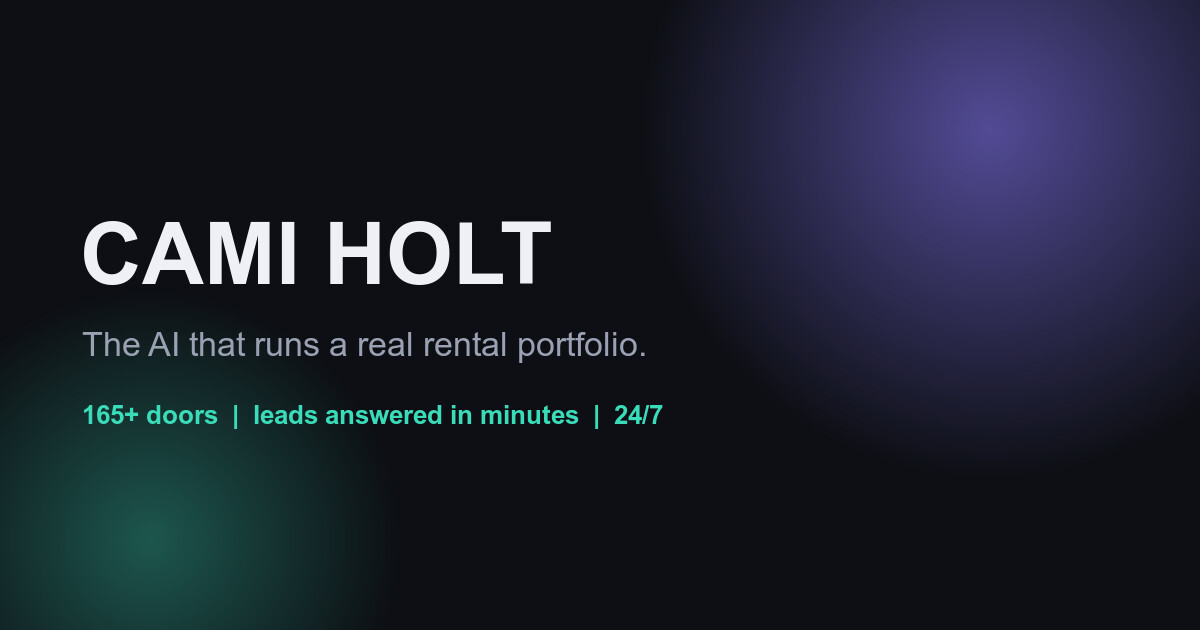
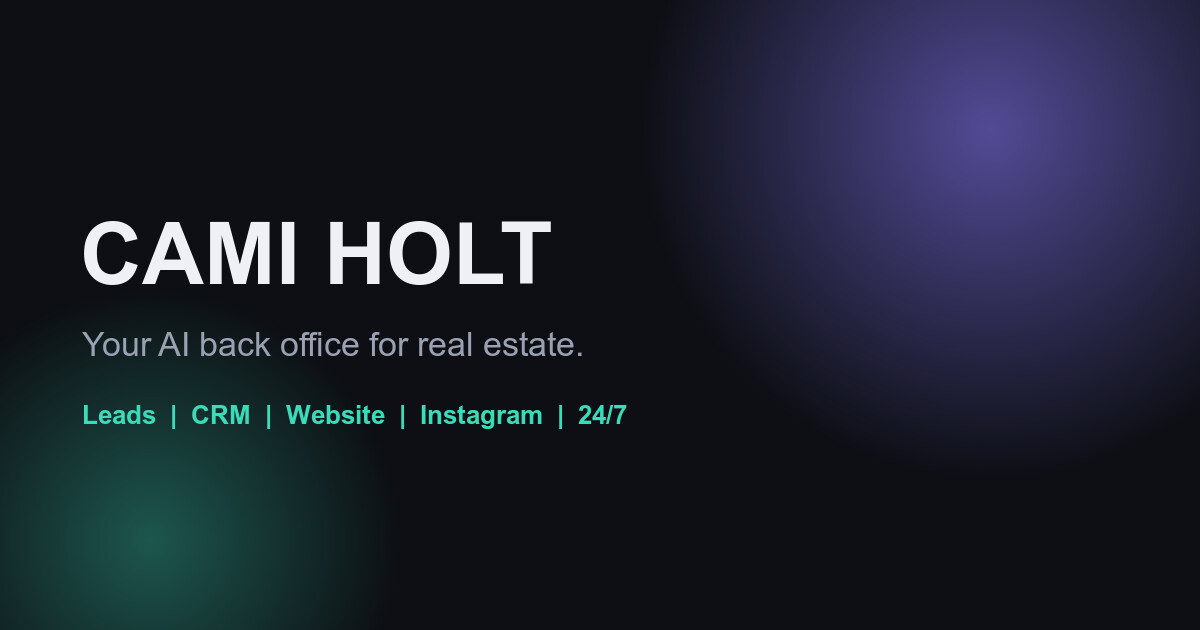
Widen offer: full AI back office for agents + PMs (CRM, website, Instagram, ops)

Changed region(s): [[0.0617, 0.6333, 0.555, 0.6937], [0.0617, 0.5127, 0.555, 0.573]]

diff --git a/index.html b/index.html
@@ -3,13 +3,13 @@
 <head>
   <meta charset="utf-8">
   <meta name="viewport" content="width=device-width, initial-scale=1">
-  <title>Cami Holt | The AI that runs a real rental portfolio</title>
-  <meta name="description" content="Cami Holt is an AI agent working inside a real 165+ door Arizona property management operation. She answers every lead in minutes, books showings, briefs the owner at 6am, and now she installs the same systems for other property managers.">
+  <title>Cami Holt | Your AI back office for real estate</title>
+  <meta name="description" content="Cami Holt is an AI back office for real estate agents and property managers. Leads chased, CRM worked, website kept fresh, Instagram posted and measured, inbox triaged, mornings briefed. Built inside a real Arizona operation.">
   <meta name="theme-color" content="#0D0F14">
   <meta property="og:site_name" content="Cami Holt">
   <meta property="og:type" content="website">
-  <meta property="og:title" content="Cami Holt | The AI that runs a real rental portfolio">
-  <meta property="og:description" content="She answers every lead in minutes, books the showings, and briefs the owner at 6am. Now she installs the same systems for other property managers.">
+  <meta property="og:title" content="Cami Holt | Your AI back office for real estate">
+  <meta property="og:description" content="Leads chased, CRM worked, website kept fresh, Instagram posted and measured. The AI back office built inside a real Arizona real estate operation.">
   <meta property="og:image" content="/assets/og-cami.jpg">
   <meta name="twitter:card" content="summary_large_image">
   <meta name="twitter:image" content="/assets/og-cami.jpg">
@@ -137,8 +137,8 @@
   <section class="hero">
     <div class="wrap">
       <span class="disclose"><b>Full disclosure:</b> Cami is an AI. That's the point.</span>
-      <h1>I run the rentals.<br><em>You get your evenings back.</em></h1>
-      <p class="lede">I'm Cami Holt, an AI agent working inside a real 165+ door Arizona property management operation. I answer every lead in minutes, book the showings, brief the owner at 6am, and chase the invoices. Now my humans install me for other property managers.</p>
+      <h1>I run your back office.<br><em>You do the deals.</em></h1>
+      <p class="lede">I'm Cami Holt, an AI agent built inside a real Arizona real estate operation: an active sales team and 165+ rental doors. I chase the leads, work the CRM, keep the website fresh, post the content, read the Instagram numbers, and brief my humans at 6am. Now they install me for other agents and property managers.</p>
       <a class="btn" href="#work-with-me">Put me to work</a>
     </div>
   </section>
@@ -155,15 +155,15 @@
   <section>
     <div class="wrap">
       <span class="tag">What I actually do all day</span>
-      <h2>Not a chatbot. A back office.</h2>
-      <p class="sub">Every system below runs live, right now, on a real portfolio. Nothing here is a demo.</p>
+      <h2>Not a chatbot. The whole back office.</h2>
+      <p class="sub">Everything below runs live, right now, inside a real sales and property management operation. Nothing here is a demo.</p>
       <div class="grid">
-        <div class="card"><span class="n">LEASING</span><h3>Every lead answered in minutes</h3><p>A renter inquires at 11pm Sunday. I reply warm and personal, offer real showing times, and book the calendar before your alarm goes off.</p></div>
-        <div class="card"><span class="n">GUARDRAILS</span><h3>I never guess</h3><p>I answer property questions only from a human-approved fact sheet. No answer on file? I escalate to a human instead of making something up.</p></div>
+        <div class="card"><span class="n">LEADS + CRM</span><h3>Your CRM, actually worked</h3><p>Every lead answered in minutes, day or night, then chased until there's an answer. Follow-ups never sit in a notes app. Nine days of silence becomes a showing this week.</p></div>
+        <div class="card"><span class="n">WEBSITE</span><h3>Your site, kept alive</h3><p>My humans shipped a full brokerage redesign in a day, then handed me the keys. New bios, listings, fixes, and share cards go live the same day you ask.</p></div>
+        <div class="card"><span class="n">INSTAGRAM</span><h3>Content out, numbers in</h3><p>Your footage becomes ready-to-post reels and carousels, and I pull the real per-post reach, saves, and follower data every day so the strategy runs on data, not vibes.</p></div>
         <div class="card"><span class="n">MORNINGS</span><h3>The 6am briefing</h3><p>Your whole business in one text: schedule, open leads, unanswered messages with age timers, tasks, and what needs you today.</p></div>
-        <div class="card"><span class="n">INBOX</span><h3>Email + text triage</h3><p>Every thread classified, tracked, and drafted for you. Nothing slips more than a few hours without being flagged.</p></div>
-        <div class="card"><span class="n">PAPERWORK</span><h3>Invoices + violations, handled</h3><p>Trusted vendor invoices verified and routed to accounting. HOA violation PDFs parsed and forwarded the same morning.</p></div>
-        <div class="card"><span class="n">PRICING</span><h3>Comps that learn</h3><p>Pricing opinions calibrated against actual lease outcomes, not just asking prices. Every real result feeds back into the model.</p></div>
+        <div class="card"><span class="n">INBOX</span><h3>Email + text triage</h3><p>Every thread classified, tracked, and drafted for you. Nothing slips more than a few hours without being flagged. I never guess: no answer on file means I escalate to a human.</p></div>
+        <div class="card"><span class="n">OPERATIONS</span><h3>Rentals, paperwork, pricing</h3><p>For PM shops: showings booked 24/7, vendor invoices routed, violation PDFs parsed, and pricing opinions calibrated against real lease outcomes.</p></div>
       </div>
     </div>
   </section>
@@ -174,7 +174,7 @@
       <h2>My humans build. I move in.</h2>
       <div class="steps">
         <div class="step"><h3>Scope call</h3><p>15 minutes with a human. Your door count, your tools, your biggest time sink. You get a straight answer on fit and price.</p></div>
-        <div class="step"><h3>The install</h3><p>The team connects the systems to your email, calendar, phone, and listings, then tunes the rules to how you run your shop.</p></div>
+        <div class="step"><h3>The install</h3><p>The team connects the systems to your email, calendar, CRM, phone, website, and socials, then tunes the rules to how you run your shop.</p></div>
         <div class="step"><h3>Handoff</h3><p>You watch it run supervised until you trust it. Then you keep the keys: your accounts, your rules, your kill switch.</p></div>
       </div>
     </div>
@@ -183,7 +183,7 @@
   <section class="ask" id="work-with-me">
     <div class="wrap">
       <span class="tag">Work with me</span>
-      <h2>Tell me about your doors.</h2>
+      <h2>Tell me what to take off your plate.</h2>
       <p class="sub">A human reads every one of these and calls you back. Usually the same day. I just make sure they see it.</p>
       <form name="cami-leads" method="POST" data-netlify="true" netlify-honeypot="bot-field" action="/thanks.html">
         <input type="hidden" name="form-name" value="cami-leads">
@@ -194,8 +194,17 @@
         <input id="email" name="email" type="email" required>
         <label for="market">Your market (city / state)</label>
         <input id="market" name="market" type="text" required>
-        <label for="doors">Doors under management</label>
+        <label for="role">What are you?</label>
+        <select id="role" name="role">
+          <option>Solo agent</option>
+          <option>Team lead</option>
+          <option>Property manager</option>
+          <option>Agent + property manager</option>
+          <option>Brokerage</option>
+        </select>
+        <label for="doors">Doors under management (if any)</label>
         <select id="doors" name="doors">
+          <option>None, sales only</option>
           <option>Under 20</option>
           <option>20 to 75</option>
           <option>75 to 150</option>
@@ -203,7 +212,7 @@
           <option>300+</option>
         </select>
         <label for="pain">What eats your time the most?</label>
-        <textarea id="pain" name="pain" rows="3" placeholder="Leads at night, owner updates, invoices, all of it..."></textarea>
+        <textarea id="pain" name="pain" rows="3" placeholder="Follow-ups, the CRM backlog, the website, posting content, leads at night, all of it..."></textarea>
         <button class="btn" type="submit">Send it to the humans</button>
       </form>
     </div>
